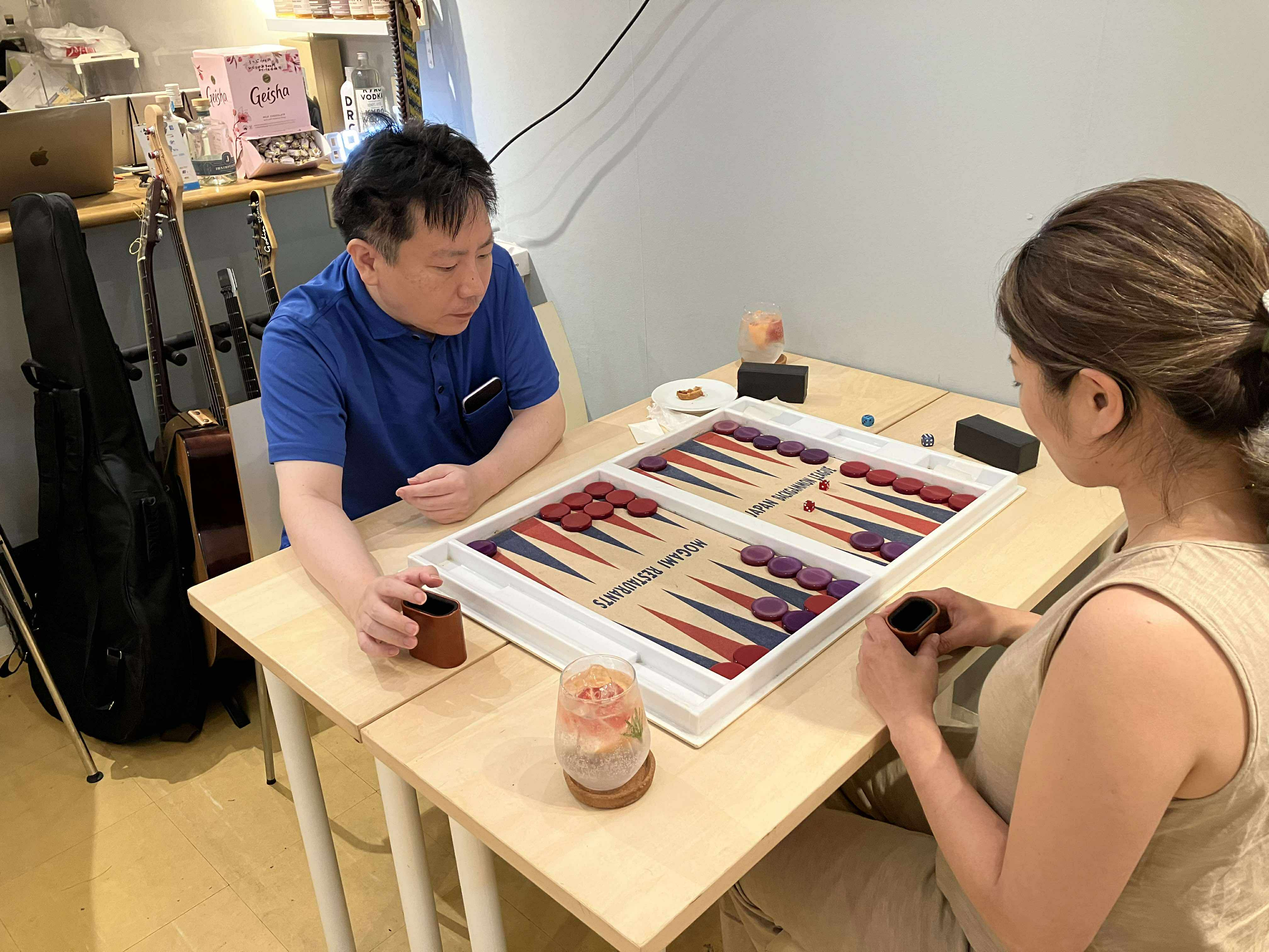
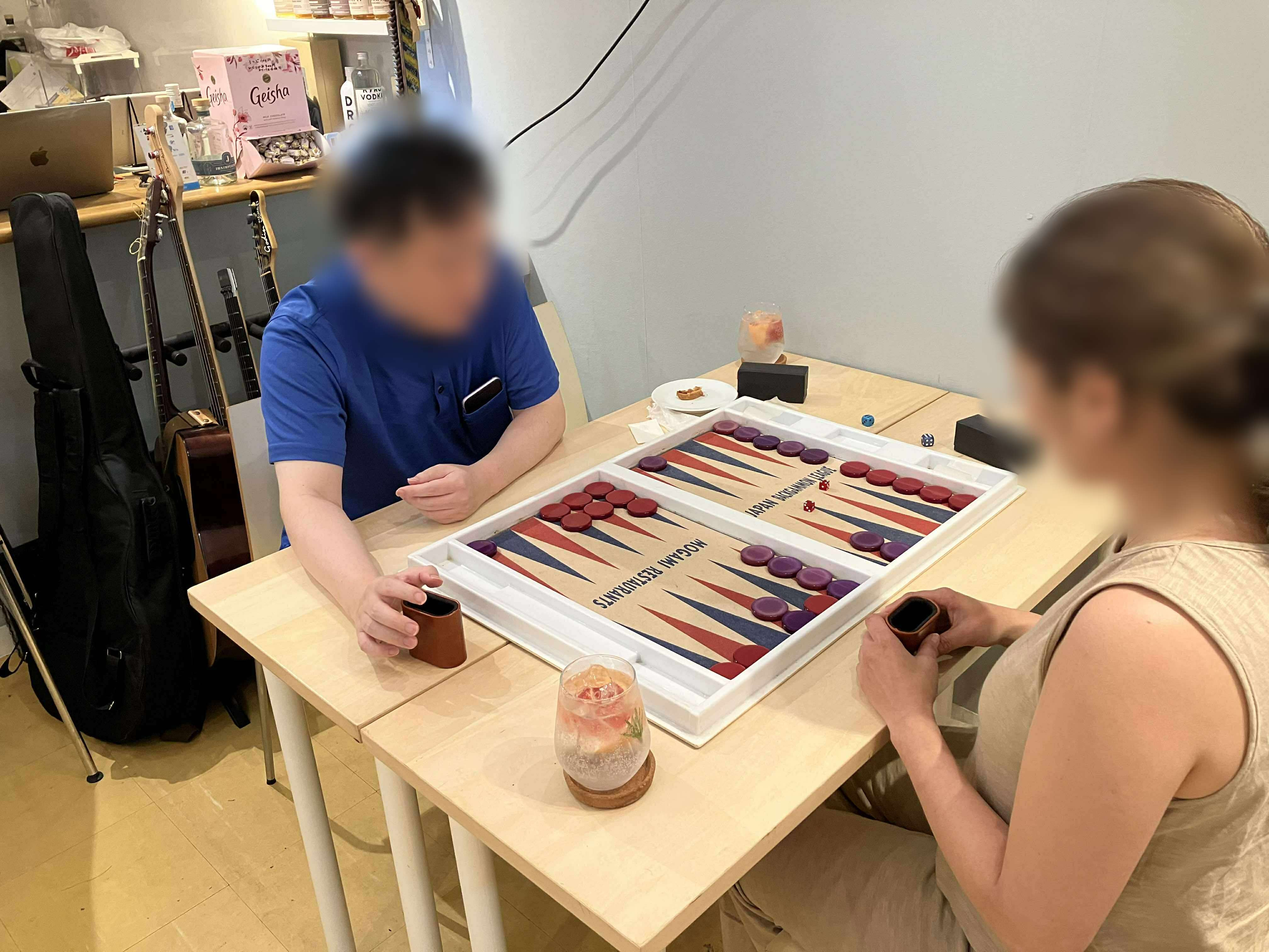
サンプル写真の顔と第三者の投稿を隠す
- photo1: 2人の顔をぼかした（画像サイズと盤の画素は変えていない）
- screen2: ゲーム盤の画像以外（アカウント名・アイコン・本文・返信）を塗りつぶした
- 認識精度は加工前と同じ（photo1 14、photo2 22、他 24 ポイント）
- CLAUDE.md に「顔や第三者の投稿は隠してから入れる」を追記
- Git 履歴に残る加工前の画像の扱いを TODO-003 に追加

Claude-Session: https://claude.ai/code/session_01JmwVyiA8wKGyR5mq3rK9rj

diff --git a/TODO.md b/TODO.md
@@ -1,7 +1,7 @@
 # TODO
 
-**残っている項目: TODO-002。** これまでに 1 件を決着させた。
-新しく足すときは「完了済み」の上に節を作る。**番号は `TODO-003` から。**
+**残っている項目: TODO-002、TODO-003。** これまでに 1 件を決着させた。
+新しく足すときは「完了済み」の上に節を作る。**番号は `TODO-004` から。**
 
 ---
 
@@ -10,6 +10,21 @@
 PWA と API は `Dockerfile` で1つのコンテナになっている（ステップ3）。スマホからいつでも使うには、
 HTTPS で常駐できるホスト（コンテナを動かせる PaaS や VPS）に置く必要がある。gnubg の都合でサーバーレス関数は不可、
 ワーカーは1つ。どこに置くかは ai1 が決める。決まったら HTTPS 終端と `docker run` の手順を README に書く。
+
+---
+
+## TODO-003. 公開済みの Git 履歴に残っている加工前のサンプル写真をどうするか決める
+
+`samples/photo1.jpg`（2人の顔）と `samples/screen2.jpg`（第三者のアカウント名・アイコン・投稿）は、
+現在のファイルでは隠してあるが、リポジトリは public で、過去のコミットには加工前の画像が残っている。
+GitHub 上でも履歴をたどれば見られる。選択肢は次のとおり。
+
+- 履歴から消す: `git filter-repo` などで書き換えて force push する。PR や既存のクローン・フォークに影響する。
+  GitHub 側のキャッシュは Support に頼まないと消えない場合がある。
+- そのままにする: 写っている人に許可があるか、投稿が公開されたものであることを確認したうえで判断する。
+- リポジトリを作り直す: 今の状態から履歴なしで新しく作る。
+
+どれにするかは ai1 が決める。決まるまで、加工前の写真を再びコミットしないこと（CLAUDE.md）。
 
 ---
 
